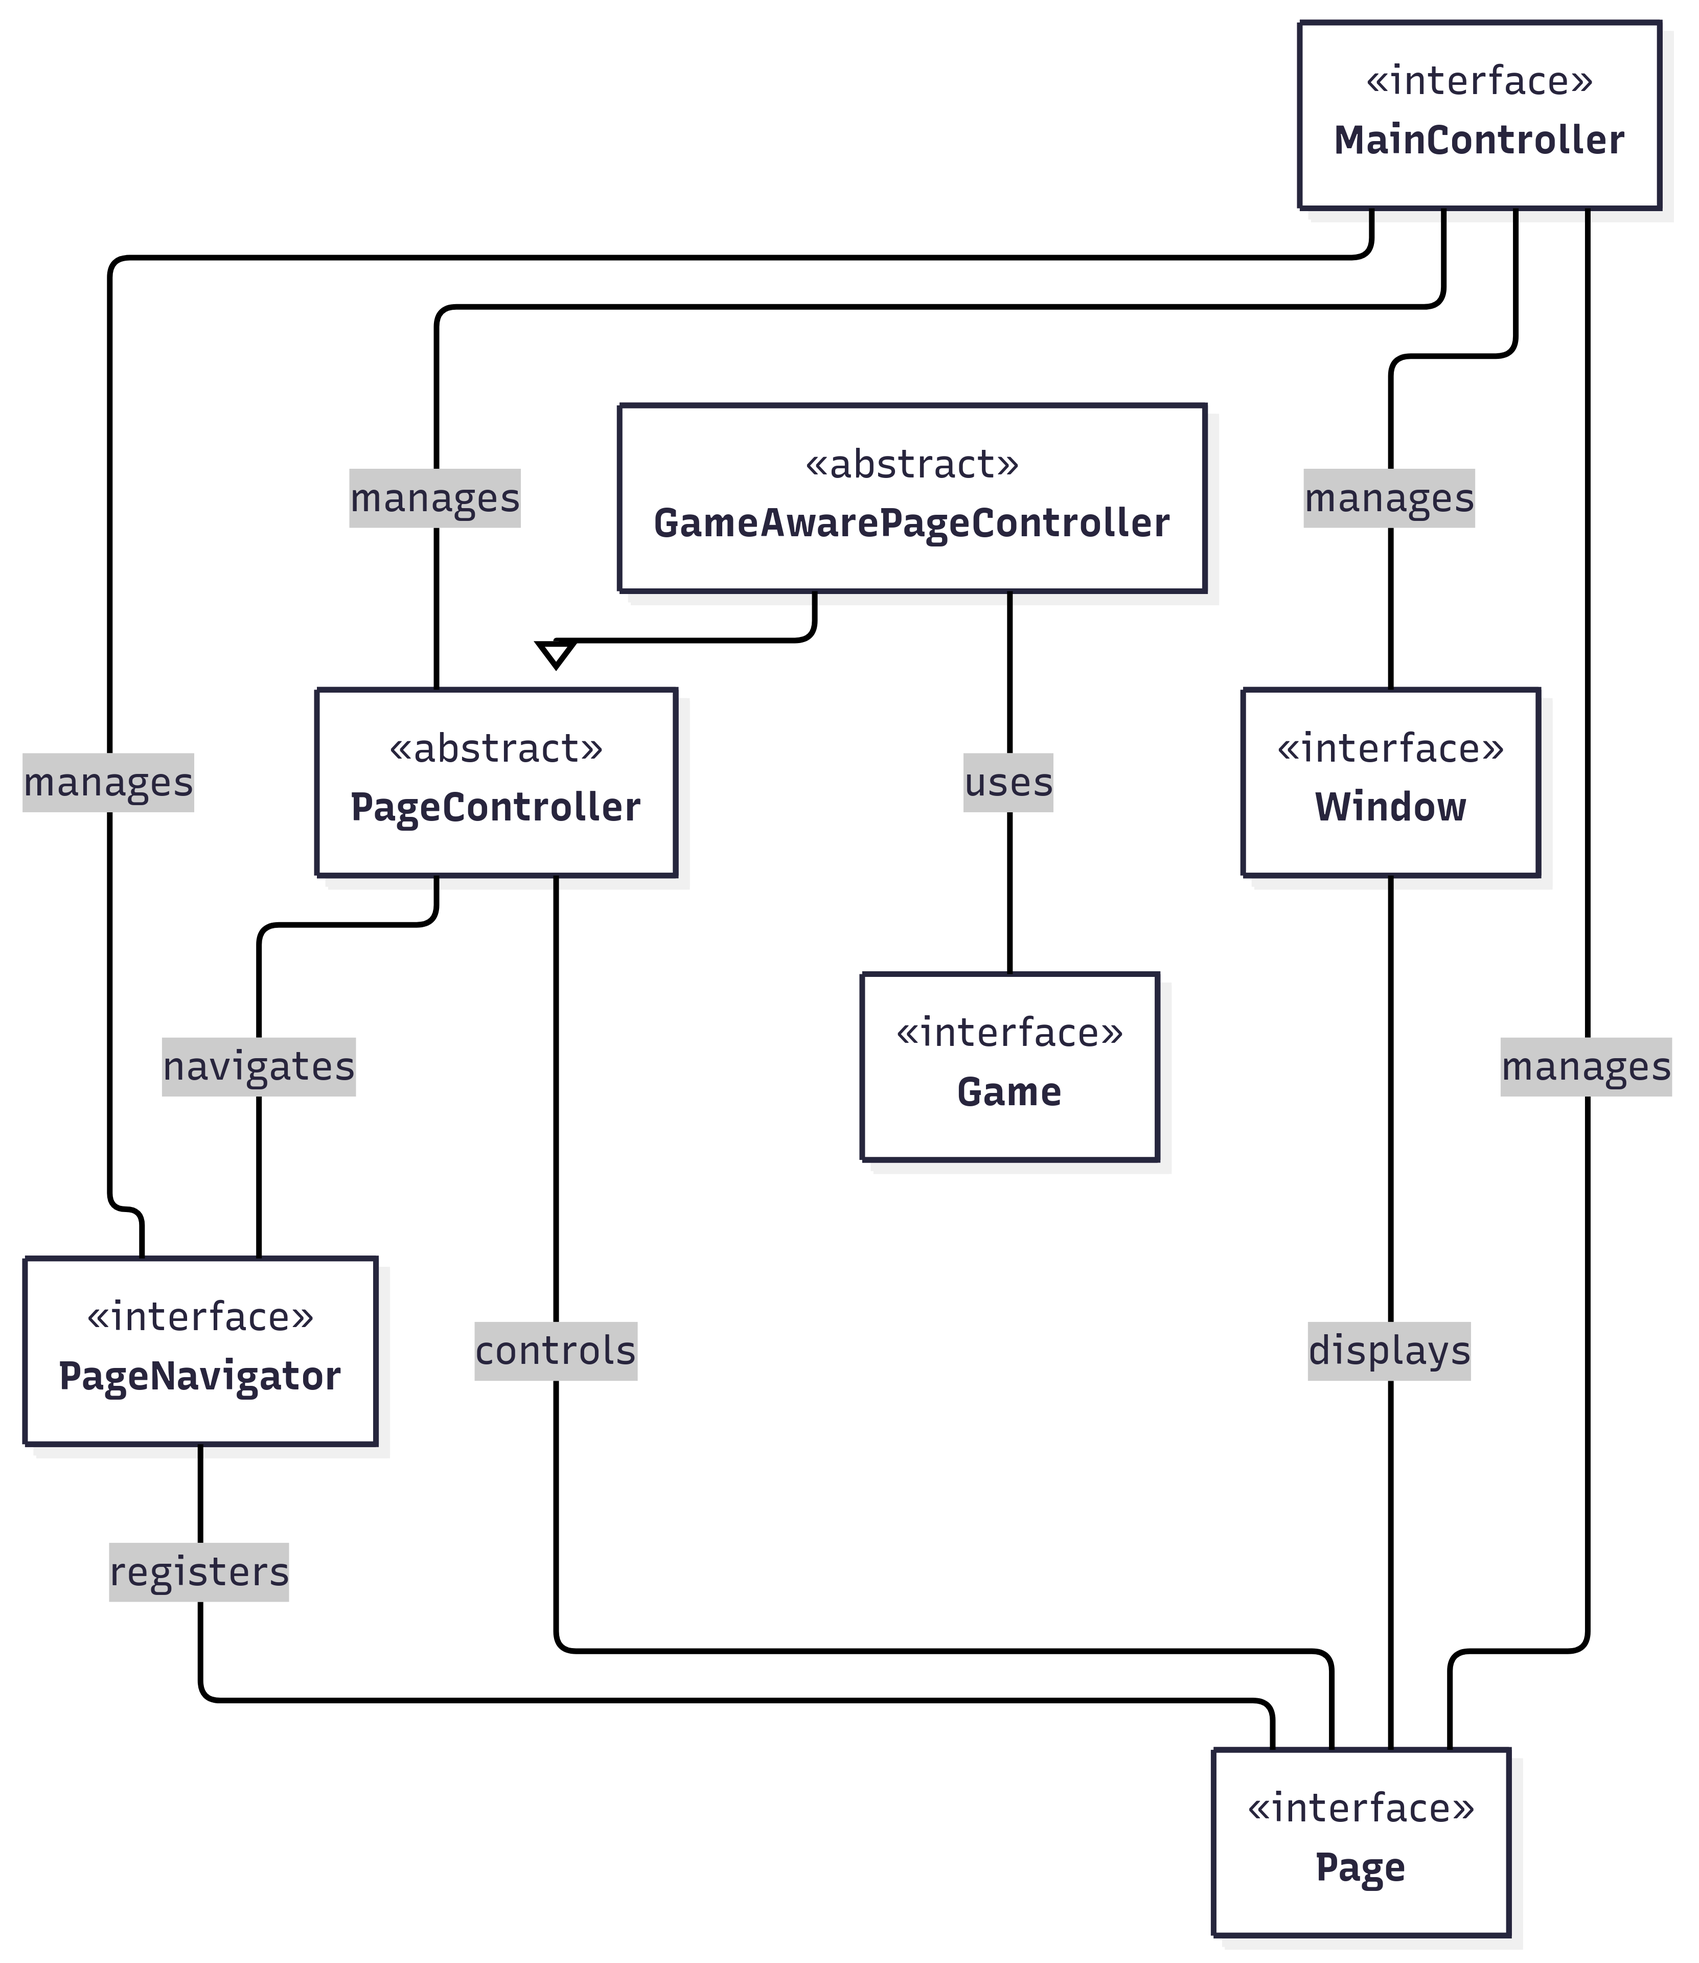
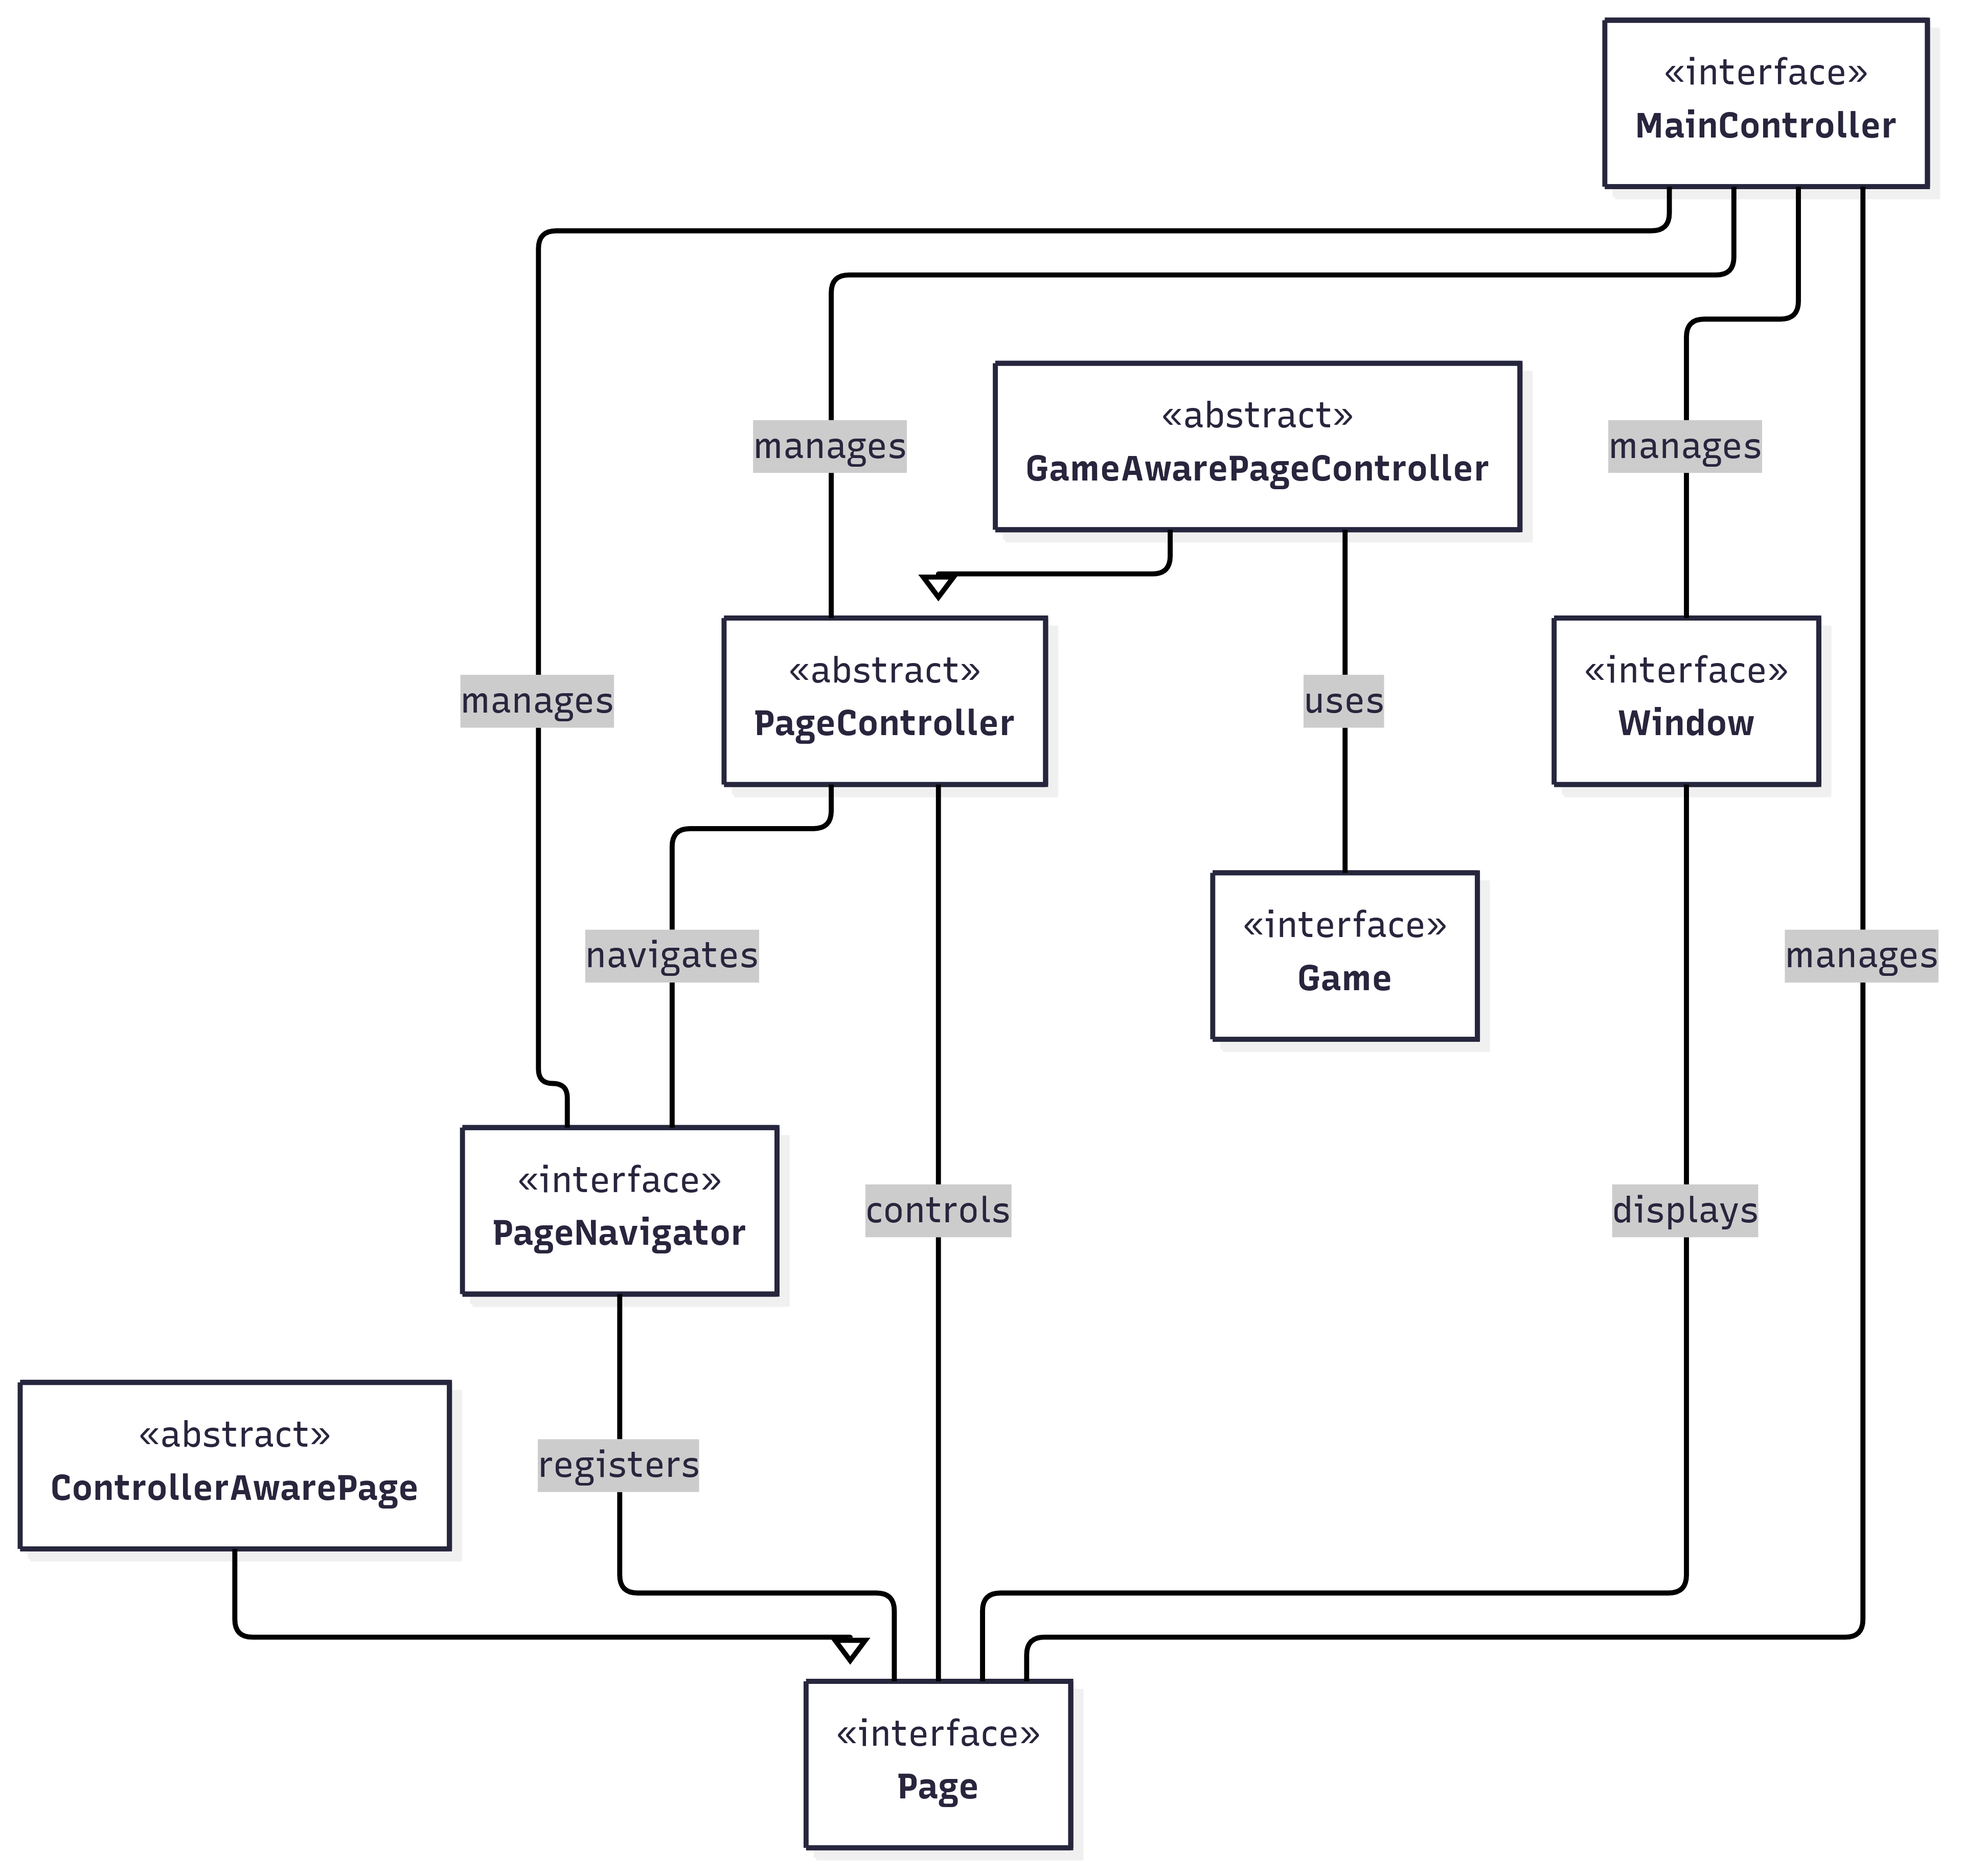
Fixed Architecture

diff --git a/13-template.tex b/13-template.tex
@@ -192,12 +192,13 @@ In particolare:
 \begin{itemize}
 	\item \textbf{Model}: definito dall'interfaccia \textit{Game}; rappresenta il punto di accesso
 	al dominio dell'applicazione.
-	\item \textbf{View}: viene definita dalle interfacce \textit{Window} e \textit{Page} che
-	rappresentano la finestra principale di visualizzazione e le singole pagine che possono
-	essere rappresentate su di essa.
+	\item \textbf{View}: viene definita dalle interfacce \textit{Window}, rappresentante la finestra
+	principale di visualizzazione, \textit{Page} rappresentante le singole pagine che possono
+	essere rappresentate su una Window e \textit{ControllerAwarePage}, specializzazione astratta di Page
+	che fornisce un meccanismo type-safe per legare una pagina al proprio controller.
 	\item \textbf{Controller}: definita da \textit{MainController}, il quale avvia l'applicazione,
 	\textit{PageController} che definisce l'interazione su una pagina specifica e
-	\textit{GameAwarePageController}, simile a PageController ma con accesso
+	\textit{GameAwarePageController}, specializzazione di PageController con accesso
 	ad informazioni sul model (Game). I controller per le pagine gestiscono la navigazione
 	tra queste ultime tramite \textit{PageNavigator}.
 \end{itemize}
